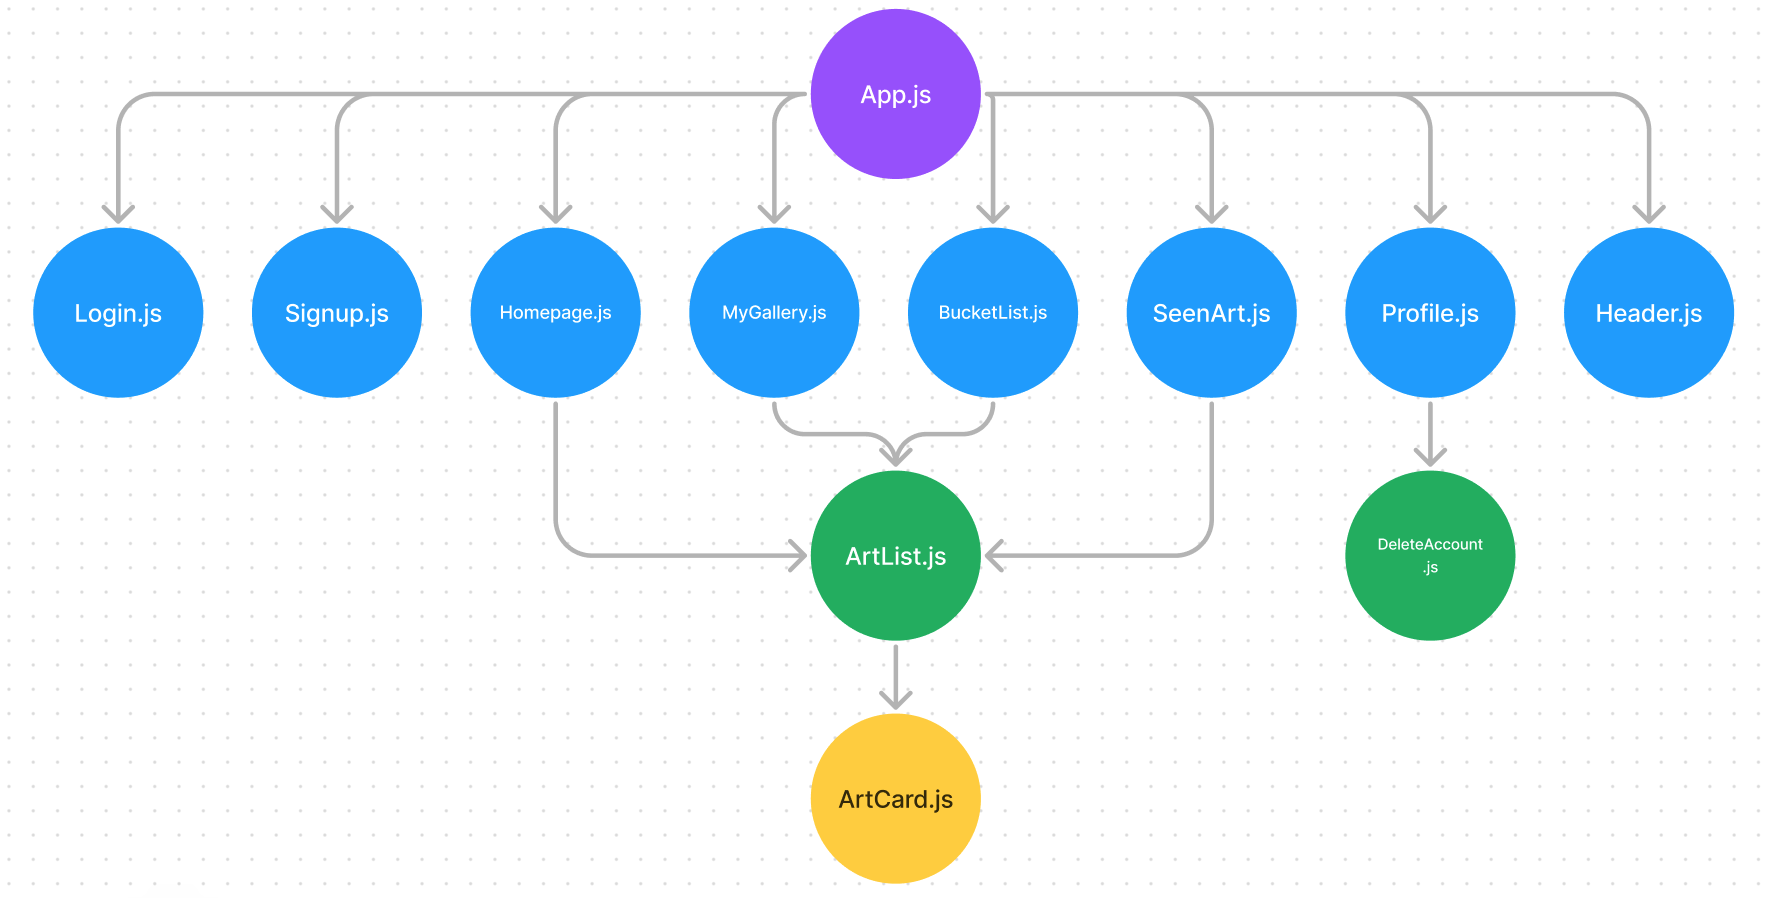
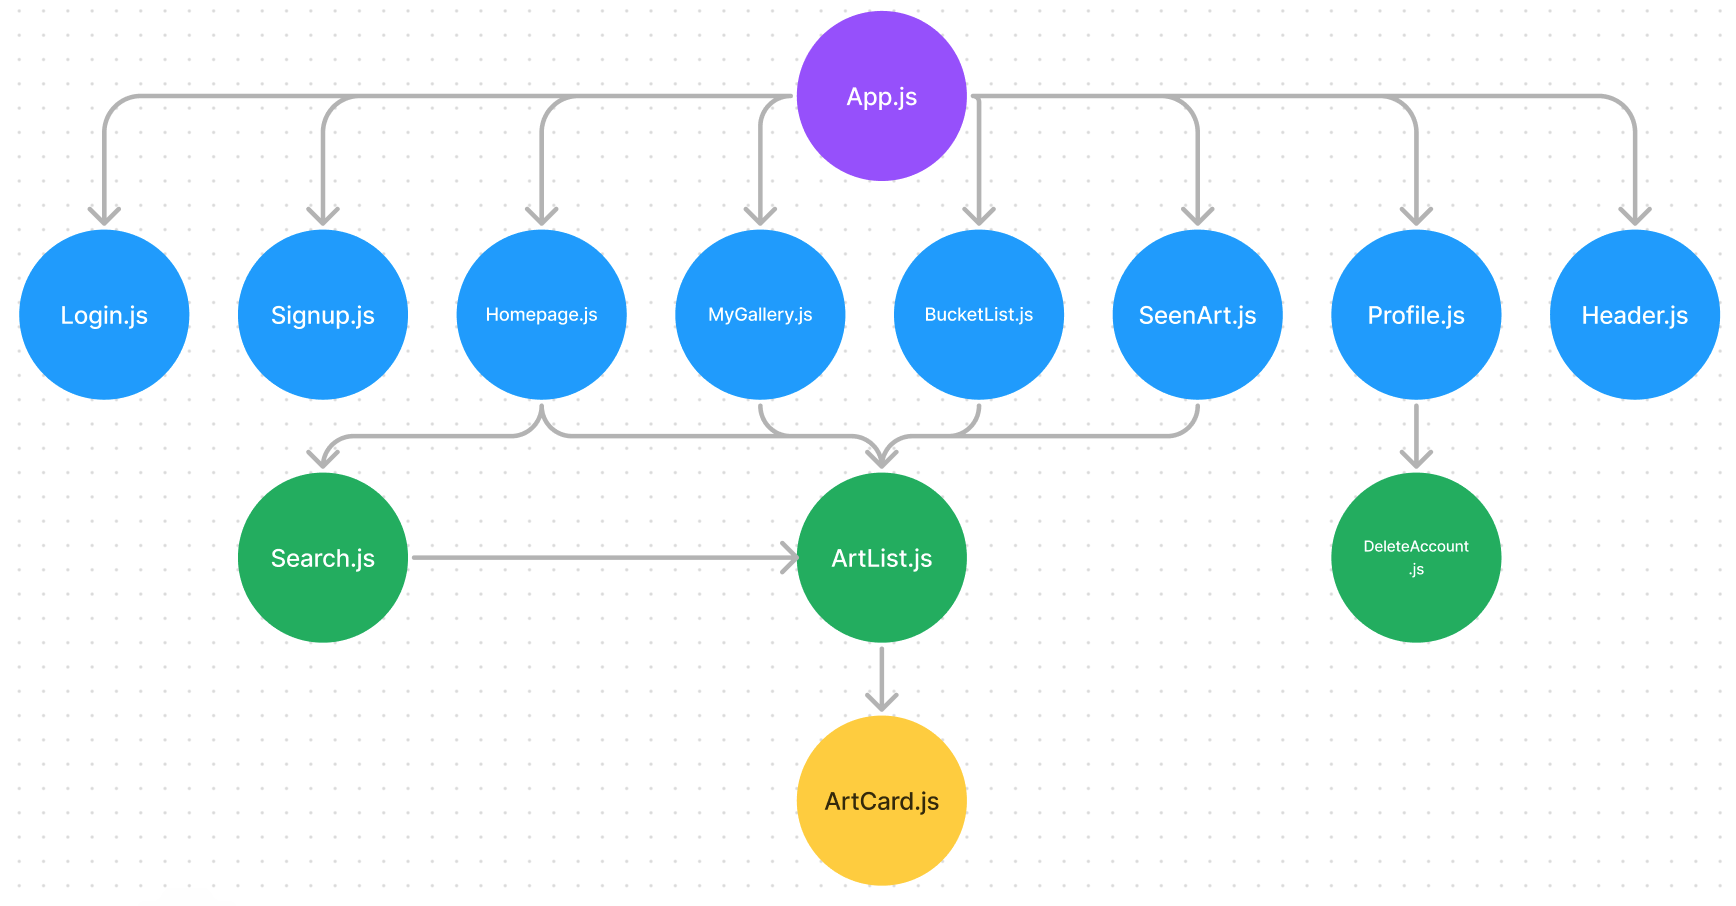
added search component to readme and updated component tree

diff --git a/README.md b/README.md
@@ -44,10 +44,11 @@ ArtSmart utilized React to develop the frontend.  There are a total of twelve co
 - BucketList.js
 - SeenArt.js
 - Profile.js
-- Header.js
+- Search.js
 - ArtList.js
 - ArtCard.js
 - DeleteAccount.js
+- Header.js
 
 Component Tree:
 ![Component Tree](public/images/component-tree.png)
@@ -79,10 +80,13 @@ Component Tree:
 ### `ArtCard.js`
 **ArtCard** is the that renders the details for every piece of art.
 
+### `Search.js`
+**Search** is visible on `Homepage.js` and allows users to filter for art based on the title of the piece, the artist, or the medium.  It renders `ArtList.js` with the appropriate responses.
+
 ### `Profile.js`
 **Profile** is the component where users than view and update their personal information.  It also contains a button that directs users to `DeleteAccount.js` is they want to delete their account.
 
-### `DeleteAccount.js1
+### `DeleteAccount.js`
 **DeleteAccount** is the component where users confirm that they would like to delete their account.  Upon confirmation, users are redirected to `Signup.js`.
 
 ### `Header.js`
